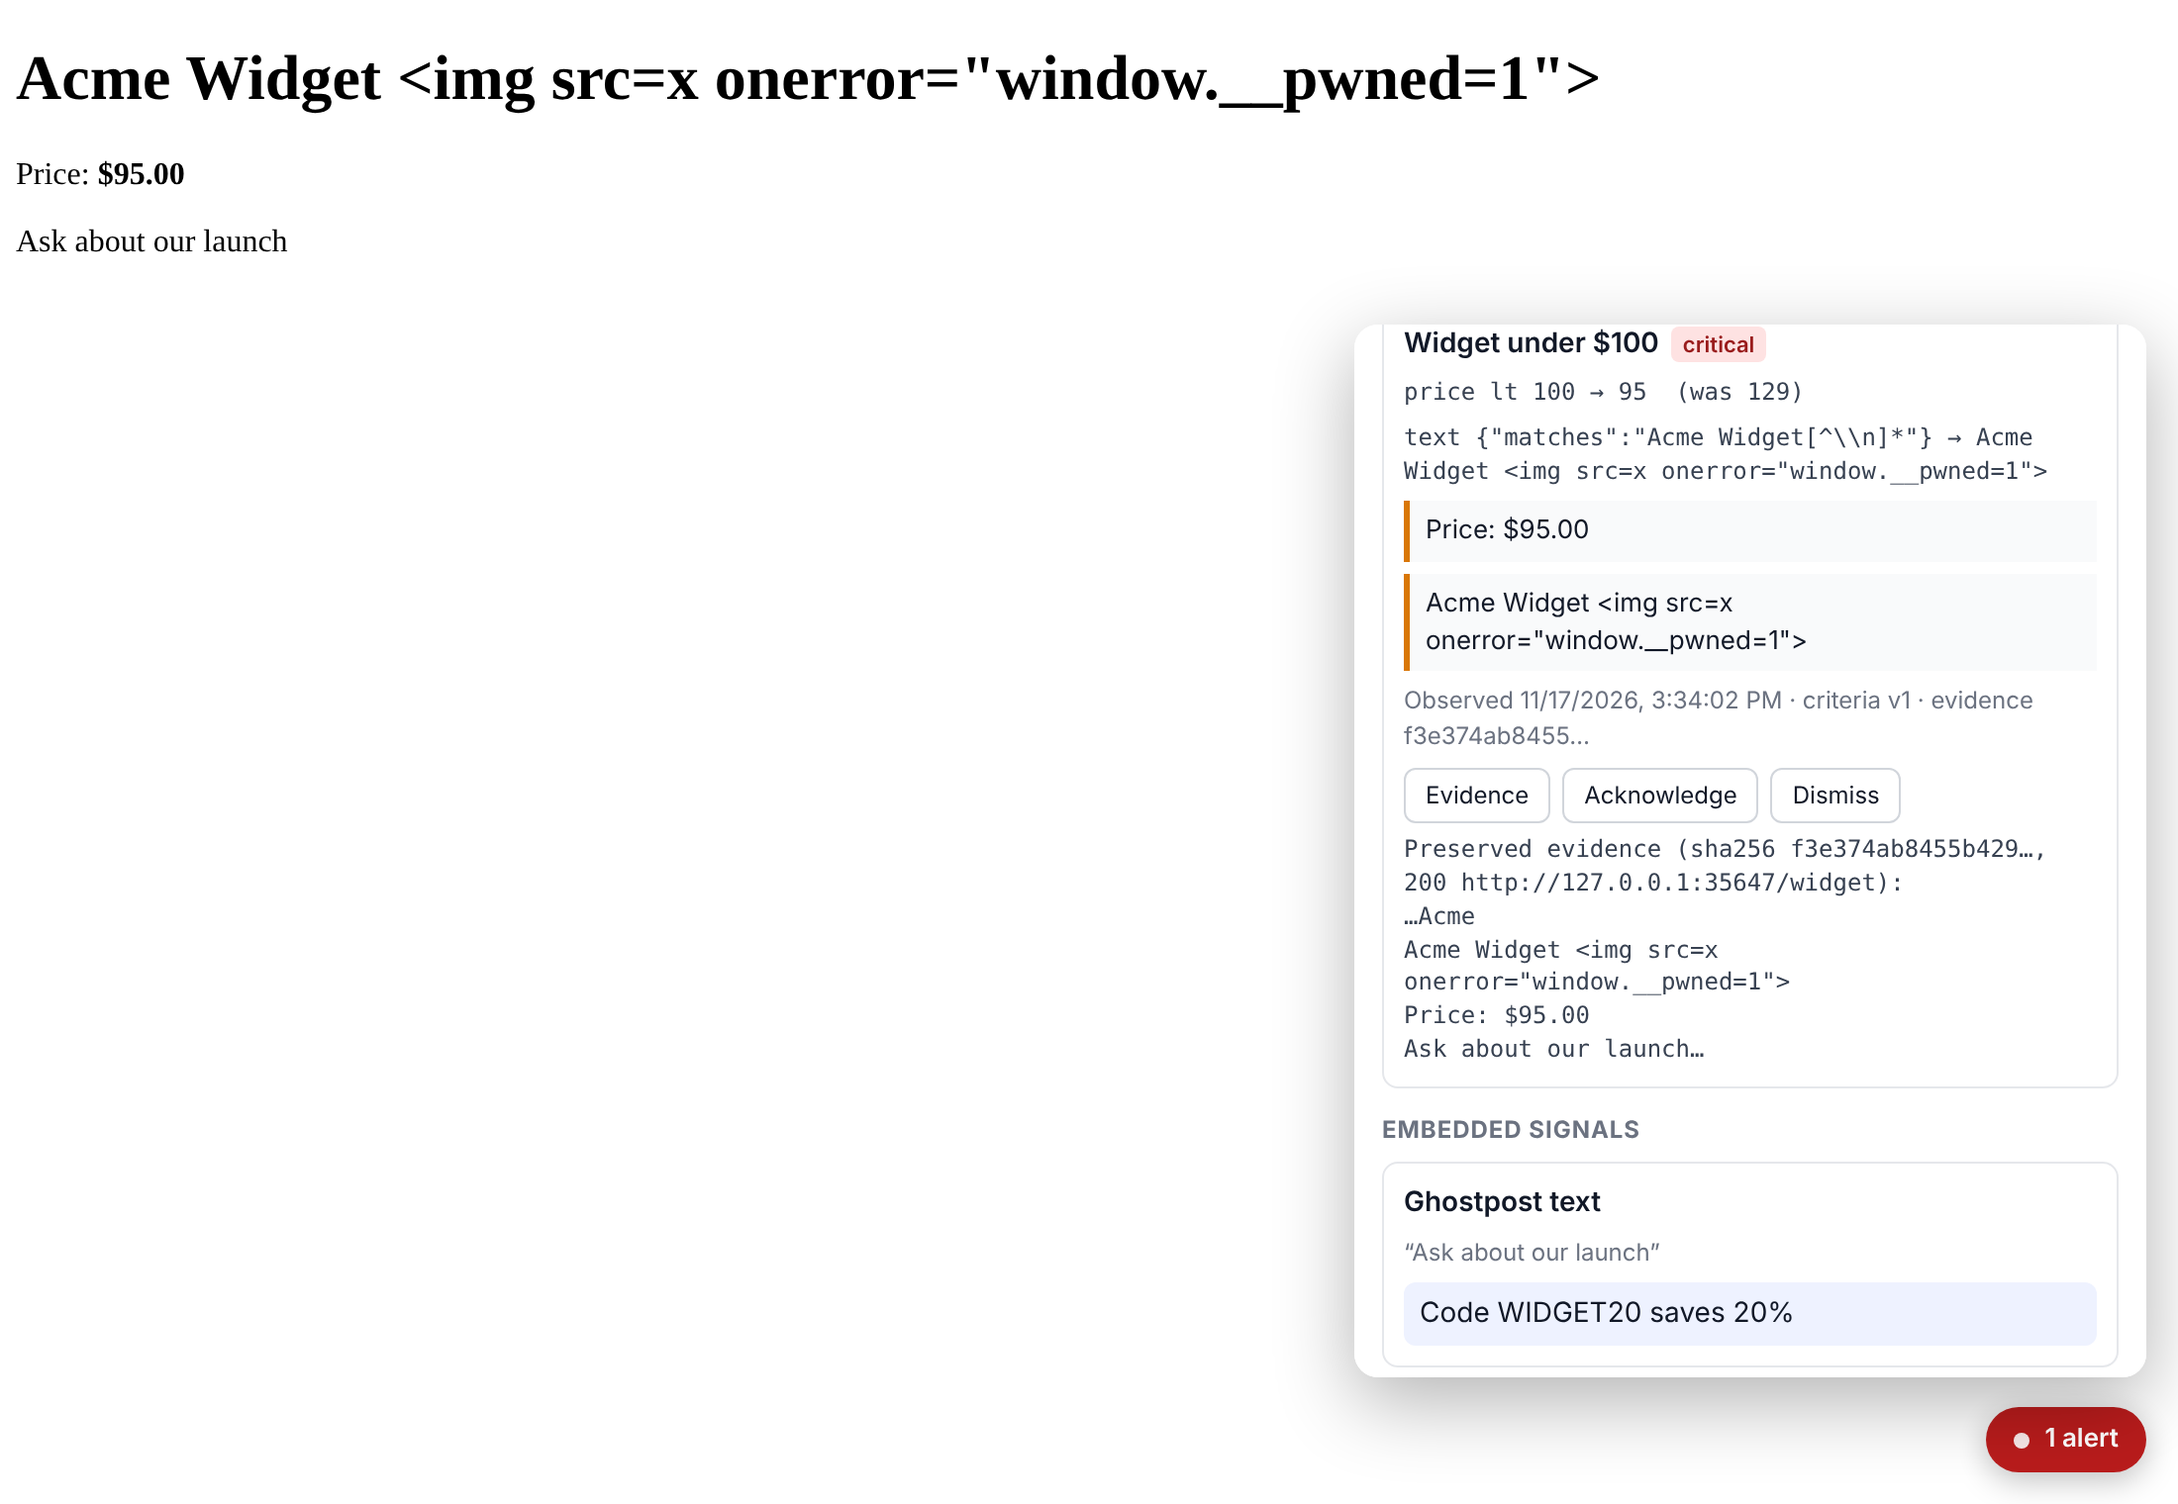
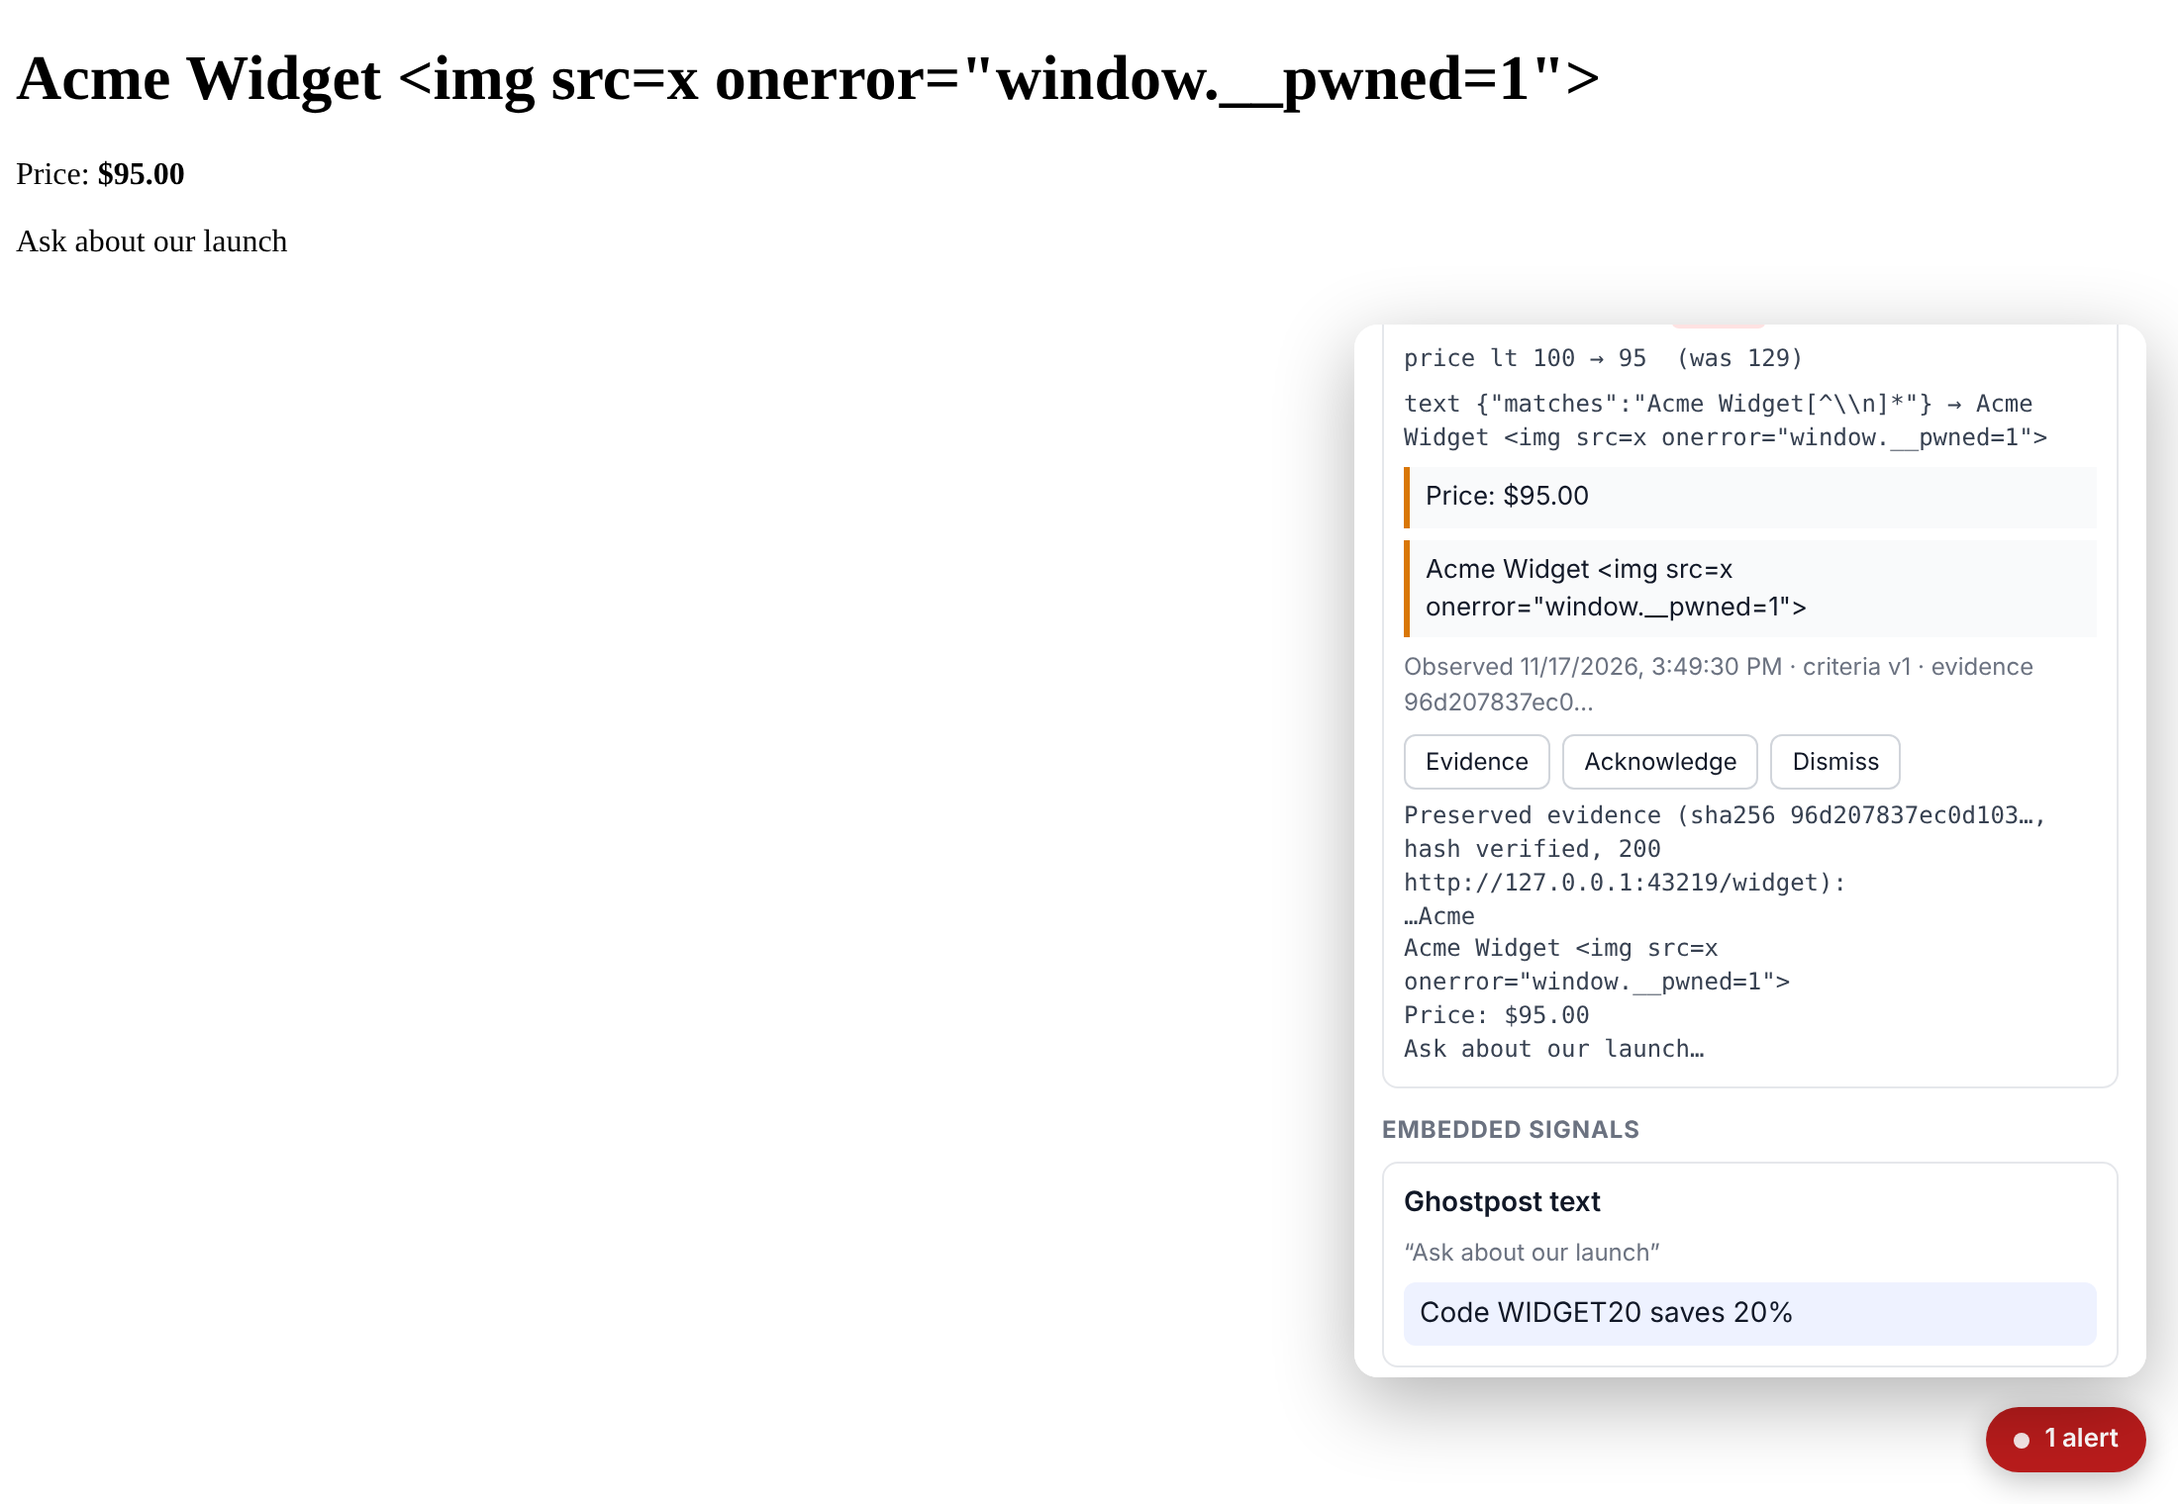
Overlay uses a host transport (no credentials, no CORS); use cases and overlay tested on FeltKit
Claude-Session: https://claude.ai/code/session_01HaRh28vVNGvpPephYKnXZS

Changed region(s): [[0.6491, 0.2164, 0.9273, 0.5875], [0.6491, 0.6184, 0.7109, 0.6493], [0.7418, 0.6184, 0.7727, 0.6493]]

diff --git a/tests/overlay.test.ts b/tests/overlay.test.ts
@@ -1,0 +1,121 @@
+/**
+ * The overlay in headless Chromium against the real FeltKit app.
+ * The host transport is a Playwright-exposed function standing in for an extension's
+ * content-script → service-worker channel (the overlay itself holds no credentials).
+ * Note: an exposed function is reachable by page scripts; a real extension bridge lives
+ * in the isolated world and is not (GAP_REGISTER G-OVL-1).
+ */
+process.env.SIGNAL_ALLOW_PRIVATE_HOSTS = '127.0.0.1';
+
+import { test } from 'node:test';
+import assert from 'node:assert/strict';
+import { createRequire } from 'node:module';
+import { readFileSync, mkdirSync } from 'node:fs';
+import { createTestApp } from '@feltdb/feltkit/testing';
+import { api } from '../feltkit/_generated/api.js';
+import { ghostpostEncoder } from '../lib/codecs/ghostpost-unicode.ts';
+import { fixture } from './helpers.ts';
+
+const require = createRequire(import.meta.url);
+let chromium: { launch: () => Promise<any> } | undefined;
+try { chromium = require('playwright').chromium; } catch { chromium = undefined; }
+const file = (p: string) => readFileSync(new URL(p, import.meta.url), 'utf8');
+
+test('overlay: evidence-backed alerts for the page, acknowledgement, local Ghostpost decoding', { skip: !chromium && 'playwright not available' }, async (t) => {
+	const site = await fixture();
+	t.after(() => site.close());
+	const app = await createTestApp();
+	t.after(() => app.close());
+	const ada = app.as('ada');
+
+	site.set('/robots.txt', { body: '', type: 'text/plain' });
+	site.set('/overlay.js', { body: file('../lib/overlay/overlay.js'), type: 'text/javascript' });
+	site.set('/codec/ghostpost_unicode_codec.js', { body: file('../codecs/ghostpost-unicode/pkg/ghostpost_unicode_codec.js'), type: 'text/javascript' });
+	site.set('/codec/ghostpost_unicode_codec_bg.wasm', { body: readFileSync(new URL('../codecs/ghostpost-unicode/pkg/ghostpost_unicode_codec_bg.wasm', import.meta.url)) as unknown as string, type: 'application/wasm' });
+	const hidden = ghostpostEncoder.encodeText('Ask about our launch', 'Code WIDGET20 saves 20%');
+	const page = (price: string) => `<!doctype html><html><head><title>Acme</title></head><body>
+		<h1>Acme Widget &lt;img src=x onerror="window.__pwned=1"&gt;</h1>
+		<p>Price: <b>$${price}</b></p><p id="promo">${hidden}</p>
+		<script>window.SignalOverlayConfig={codecBase:'/codec',transport:(op,args)=>window.__signalHost(op,args)};</script>
+		<script src="/overlay.js"></script></body></html>`;
+	site.set('/widget', { body: page('129.00') });
+
+	const sourceId = await ada.mutation(api.sources.register, { type: 'http_page', locator: `${site.url}/widget`, strategy: 'manual' });
+	await ada.mutation(api.criteria.define, { definition: JSON.stringify({
+		id: 'drop', name: 'Widget under $100', severity: 'critical',
+		extract: [{ field: 'price', from: 'text', pattern: 'Price:\\s*\\$([0-9.,]+)', type: 'number' }],
+		condition: { all: [{ field: 'price', op: 'lt', value: 100 }, { text: { matches: 'Acme Widget[^\\n]*' } }] }
+	}) });
+	const monitorId = await ada.mutation(api.monitors.create, { sourceId, criteriaId: 'drop', criteriaVersion: 1 });
+	await ada.action(api.monitors.observe, { monitorId });
+	site.set('/widget', { body: page('95.00') });
+	const hit = await ada.action(api.monitors.observe, { monitorId });
+	assert.equal(hit.outcome, 'event_recorded');
+
+	const browser = await chromium!.launch();
+	t.after(() => browser.close());
+	const ctx = await browser.newContext({ viewport: { width: 1100, height: 760 }, deviceScaleFactor: 2 });
+	const p = await ctx.newPage();
+	const ops: Record<string, (a: any) => Promise<unknown>> = {
+		'events:forPage': (a) => ada.query(api.events.forPage, a),
+		'events:evidence': (a) => ada.query(api.events.evidence, a),
+		'events:acknowledge': (a) => ada.mutation(api.events.acknowledge, a),
+	};
+	await p.exposeFunction('__signalHost', (op: string, args: unknown) => ops[op](args));
+	const errors: string[] = [];
+	p.on('pageerror', (e: Error) => errors.push(e.message));
+	await p.goto(`${site.url}/widget`);
+
+	// Closed shadow root (page scripts cannot read alert data): read and click through CDP with pierce:true.
+	const cdp = await ctx.newCDPSession(p);
+	const text = (n: any): string => (n.nodeType === 3 ? n.nodeValue : [...(n.children ?? []), ...(n.shadowRoots ?? [])].map(text).join(''));
+	const overlayText = async (): Promise<string> => {
+		const { root } = await cdp.send('DOM.getDocument', { depth: -1, pierce: true });
+		const out: string[] = [];
+		const walk = (n: any, inside: boolean) => {
+			const here = inside || (n.attributes ?? []).includes('data-signal-overlay');
+			if (here && n.nodeType === 3 && n.nodeValue.trim()) out.push(n.nodeValue.trim());
+			for (const c of [...(n.shadowRoots ?? []), ...(n.children ?? [])]) if (c.nodeName !== 'STYLE') walk(c, here);
+		};
+		walk(root, false);
+		return out.join('\n');
+	};
+	const click = async (label: string) => {
+		const { root } = await cdp.send('DOM.getDocument', { depth: -1, pierce: true });
+		const find = (n: any): any => (n.nodeName === 'BUTTON' && text(n).trim() === label ? n : [...(n.children ?? []), ...(n.shadowRoots ?? [])].map(find).find(Boolean));
+		const btn = find(root);
+		assert.ok(btn, `button "${label}" present`);
+		await cdp.send('DOM.scrollIntoViewIfNeeded', { backendNodeId: btn.backendNodeId });
+		const { model } = await cdp.send('DOM.getBoxModel', { backendNodeId: btn.backendNodeId });
+		await p.mouse.click((model.content[0] + model.content[4]) / 2, (model.content[1] + model.content[5]) / 2);
+	};
+
+	await p.waitForTimeout(1500);
+	assert.match(await overlayText(), /^1 alert$/m);
+	await click('1 alert');
+	await click('Evidence');
+	await p.waitForTimeout(500);
+	const all = await overlayText();
+	assert.match(all, /Widget under \$100/);
+	assert.match(all, /price lt 100 → 95 {2}\(was 129\)/);
+	assert.match(all, /onerror="window\.__pwned=1"/, 'injected markup shown as text');
+	assert.match(all, /hash verified/);
+	assert.match(all, /Ghostpost text/);
+	assert.equal(await p.evaluate(() => (window as any).__pwned), undefined, 'observed content never executed');
+	assert.equal(await p.evaluate(() => (document.querySelector('[data-signal-overlay]') as any).shadowRoot), null);
+
+	await click('Reveal');
+	await p.waitForTimeout(200);
+	assert.match(await overlayText(), /^Code WIDGET20 saves 20%$/m, 'decoded in the browser by the extracted WASM codec');
+	mkdirSync('docs', { recursive: true });
+	await p.screenshot({ path: 'docs/overlay.png' });
+
+	await click('Acknowledge');
+	await p.waitForTimeout(300);
+	assert.equal((await ada.query(api.events.list, {}))[0].acknowledged, true, 'acknowledged durably in FeltKit');
+
+	await p.evaluate((enc: string) => { const d = document.createElement('p'); d.textContent = enc; document.body.appendChild(d); }, ghostpostEncoder.encodeReference('Read more', 'external_url', 'https://example.com/a'));
+	await p.waitForTimeout(1000);
+	assert.match(await overlayText(), /^Ghostpost reference$/m, 'dynamic content picked up by MutationObserver');
+	assert.deepEqual(errors, []);
+});

diff --git a/lib/overlay/overlay.js b/lib/overlay/overlay.js
@@ -11,13 +11,19 @@
  * Safety: page content and event content are rendered with textContent only,
  * inside a closed shadow root; nothing observed is ever executed or used as an
  * instruction. Usage:
- *   <script src="https://signal.example/overlay.js" data-api="https://signal.example" data-token="…"></script>
+ *   window.SignalOverlayConfig = { transport, codecBase, locator? }; then load overlay.js.
+ *
+ * The overlay holds no credentials and calls no API itself. `transport(op, args)` is
+ * provided by its host: in production a browser extension's content script relaying to
+ * the service worker that holds the FeltKit session (FeltKit serves no CORS by design;
+ * see @feltdb/feltkit docs/EXTENSION-HOSTS.md). Ops map 1:1 to Signal functions:
+ *   'events:forPage' {sourceLocator} · 'events:evidence' {eventId} · 'events:acknowledge' {eventId}
+ * `codecBase` serves ghostpost_unicode_codec.js and _bg.wasm (extension: web_accessible_resources).
  */
 (function () {
 	'use strict';
 	if (window.__signalOverlay) return;
-	const script = document.currentScript;
-	const cfg = Object.assign({ api: script && script.dataset.api, token: script && script.dataset.token, locator: location.href }, window.SignalOverlayConfig || {});
+	const cfg = Object.assign({ locator: location.href }, window.SignalOverlayConfig || {});
 	const state = { events: [], signals: [], open: false, dismissed: new Set(), error: null, monitoring: true };
 
 	// ---------------------------------------------------------------- UI shell
@@ -61,7 +67,7 @@
 	function fmt(v) { return v === null || v === undefined ? '—' : typeof v === 'object' ? JSON.stringify(v) : String(v); }
 
 	function render() {
-		const events = state.events.filter((e) => !state.dismissed.has(e.eventId));
+		const events = state.events.filter((e) => !state.dismissed.has(e.id));
 		const unacked = events.filter((e) => !e.acknowledged);
 		const okSignals = state.signals.filter((s) => s.ok);
 		const label = $('.label');
@@ -99,7 +105,7 @@
 			ack.disabled = !!e.acknowledged;
 			ack.addEventListener('click', () => acknowledge(e));
 			const dis = el('button', 's', 'Dismiss');
-			dis.addEventListener('click', () => { state.dismissed.add(e.eventId); render(); });
+			dis.addEventListener('click', () => { state.dismissed.add(e.id); render(); });
 			item.append(ev, ack, dis);
 			alerts.append(item);
 		}
@@ -127,41 +133,40 @@
 	}
 
 	// ---------------------------------------------------------------- API
-	async function api(path, init) {
-		const r = await fetch(cfg.api.replace(/\/$/, '') + path, Object.assign({ headers: { authorization: `Bearer ${cfg.token}`, 'content-type': 'application/json' } }, init));
-		if (!r.ok) throw new Error(`Signal API ${r.status}`);
-		return r.json();
+	async function call(op, args) {
+		if (typeof cfg.transport !== 'function') throw new Error('no transport');
+		return cfg.transport(op, args);
 	}
 	async function loadEvents() {
-		if (!cfg.api) return;
+		if (typeof cfg.transport !== 'function') return;
 		try {
-			const r = await api(`/v1/events?sourceLocator=${encodeURIComponent(cfg.locator)}`);
-			state.events = r.events; state.error = null;
+			state.events = await call('events:forPage', { sourceLocator: cfg.locator }); state.error = null;
 		} catch (e) { state.error = 'Could not load alerts.'; }
 		render();
 	}
 	async function acknowledge(e) {
-		try { await api(`/v1/events/${encodeURIComponent(e.eventId)}/ack`, { method: 'POST', body: '{}' }); e.acknowledged = true; } catch (_) { /* surfaced by unchanged button */ }
+		try { await call('events:acknowledge', { eventId: e.id }); e.acknowledged = true; } catch (_) { /* surfaced by unchanged button */ }
 		render();
 	}
 	async function showEvidence(e, item, btn) {
 		btn.disabled = true;
 		try {
-			const r = await api(`/v1/events/${encodeURIComponent(e.eventId)}/evidence`);
+			const r = await call('events:evidence', { eventId: e.id });
 			const t = r.normalizedText;
 			const ex = (e.excerpts[0] && e.excerpts[0].text) || '';
 			const i = ex ? t.indexOf(ex) : -1;
 			const ctx = i >= 0 ? t.slice(Math.max(0, i - 160), i + ex.length + 160) : t.slice(0, 400);
-			item.append(el('div', 'kv', `Preserved evidence (sha256 ${e.evidence.contentHash.slice(0, 16)}…, ${e.provenance.httpStatus || ''} ${e.provenance.finalUrl || ''}):\n…${ctx}…`));
+			item.append(el('div', 'kv', `Preserved evidence (sha256 ${e.evidence.contentHash.slice(0, 16)}…${r.verified ? ', hash verified' : ', HASH MISMATCH'}, ${e.provenance.httpStatus || ''} ${e.provenance.finalUrl || ''}):\n…${ctx}…`));
 		} catch (_) { item.append(el('div', 'kv', 'Evidence unavailable.')); }
 	}
 
 	// ---------------------------------------------------------------- local decoding
 	let codec = null;
 	async function loadCodec() {
-		if (codec || !cfg.api) return codec;
-		const mod = await import(cfg.api.replace(/\/$/, '') + '/codec/ghostpost_unicode_codec.js');
-		await mod.default({ module_or_path: cfg.api.replace(/\/$/, '') + '/codec/ghostpost_unicode_codec_bg.wasm' });
+		if (codec || !cfg.codecBase) return codec;
+		const base = cfg.codecBase.replace(/\/$/, '');
+		const mod = await import(base + '/ghostpost_unicode_codec.js');
+		await mod.default({ module_or_path: base + '/ghostpost_unicode_codec_bg.wasm' });
 		return (codec = mod);
 	}
 	function collectBlocks(rootNode, out) {

diff --git a/tests/examples.test.ts b/tests/examples.test.ts
@@ -1,0 +1,30 @@
+/** Every documented use case (examples/use-cases.json) runs through the real FeltKit app with pushed content. */
+import { test } from 'node:test';
+import assert from 'node:assert/strict';
+import { readFileSync } from 'node:fs';
+import { createTestApp } from '@feltdb/feltkit/testing';
+import { api } from '../feltkit/_generated/api.js';
+import { ghostpostEncoder } from '../lib/codecs/ghostpost-unicode.ts';
+
+const { cases } = JSON.parse(readFileSync(new URL('../examples/use-cases.json', import.meta.url), 'utf8'));
+const content = (c: unknown) => (typeof c === 'string' ? c : ghostpostEncoder.encodeReference(...((c as { encodeReference: [string, 'ghostpost', string] }).encodeReference)));
+
+test('documented use cases', async (t) => {
+	const app = await createTestApp();
+	t.after(() => app.close());
+	const ada = app.as('ada');
+	for (const [i, uc] of cases.entries()) {
+		const type = uc.contentType === 'application/json' ? 'json' : uc.contentType === 'text/html' ? 'dom' : 'text';
+		const run = async (sequence: unknown[], suffix: string) => {
+			const sourceId = await ada.mutation(api.sources.register, { type, locator: `example:${i}:${suffix}`, strategy: 'event' });
+			const monitorId = await ada.mutation(api.monitors.create, { sourceId, criteriaId: uc.criteria.id, criteriaVersion: 1 });
+			let last;
+			for (const c of sequence) last = await ada.mutation(api.monitors.push, { monitorId, content: content(c) });
+			return last!.outcome;
+		};
+		await ada.mutation(api.criteria.define, { definition: JSON.stringify(uc.criteria) });
+		const pre = uc.previous ? [uc.previous] : [];
+		assert.equal(await run([...pre, uc.matches], 'yes'), 'event_recorded', `${uc.name}: should match`);
+		assert.equal(await run([...pre, uc.doesNotMatch], 'no'), 'no_match', `${uc.name}: should not match`);
+	}
+});
